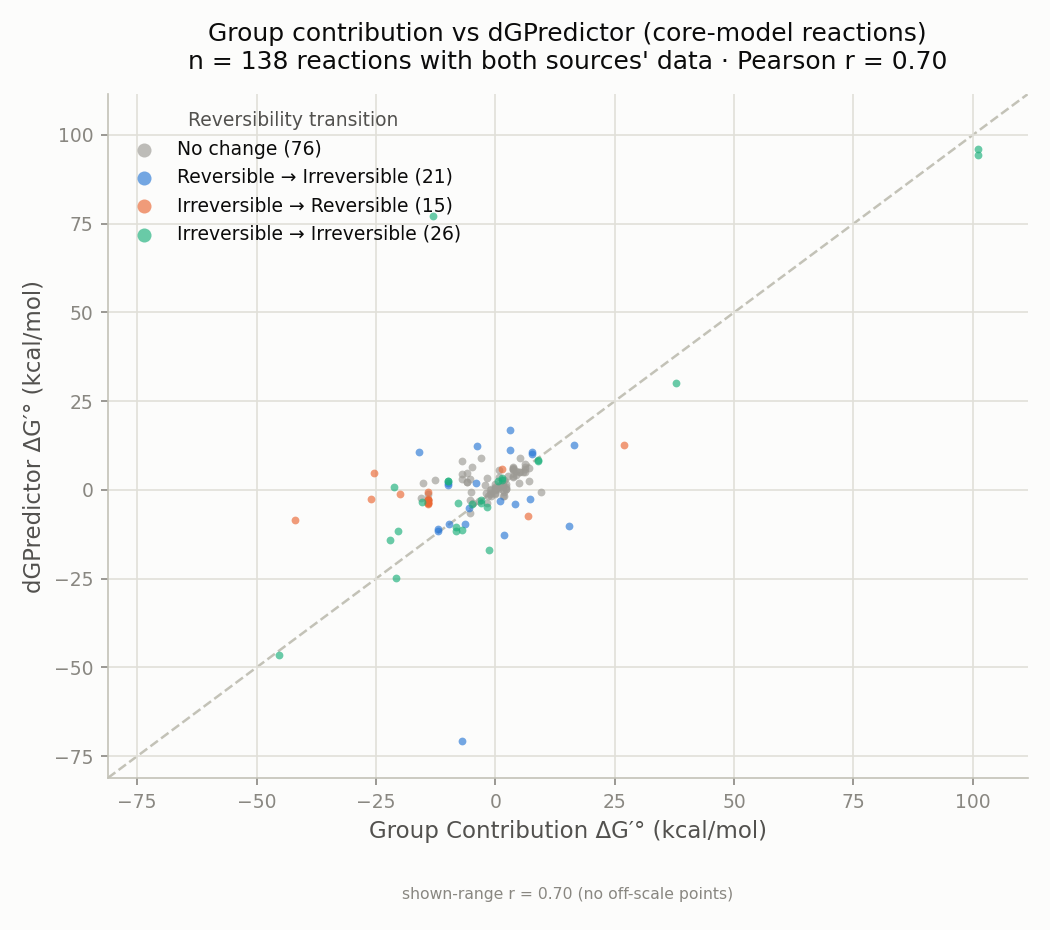
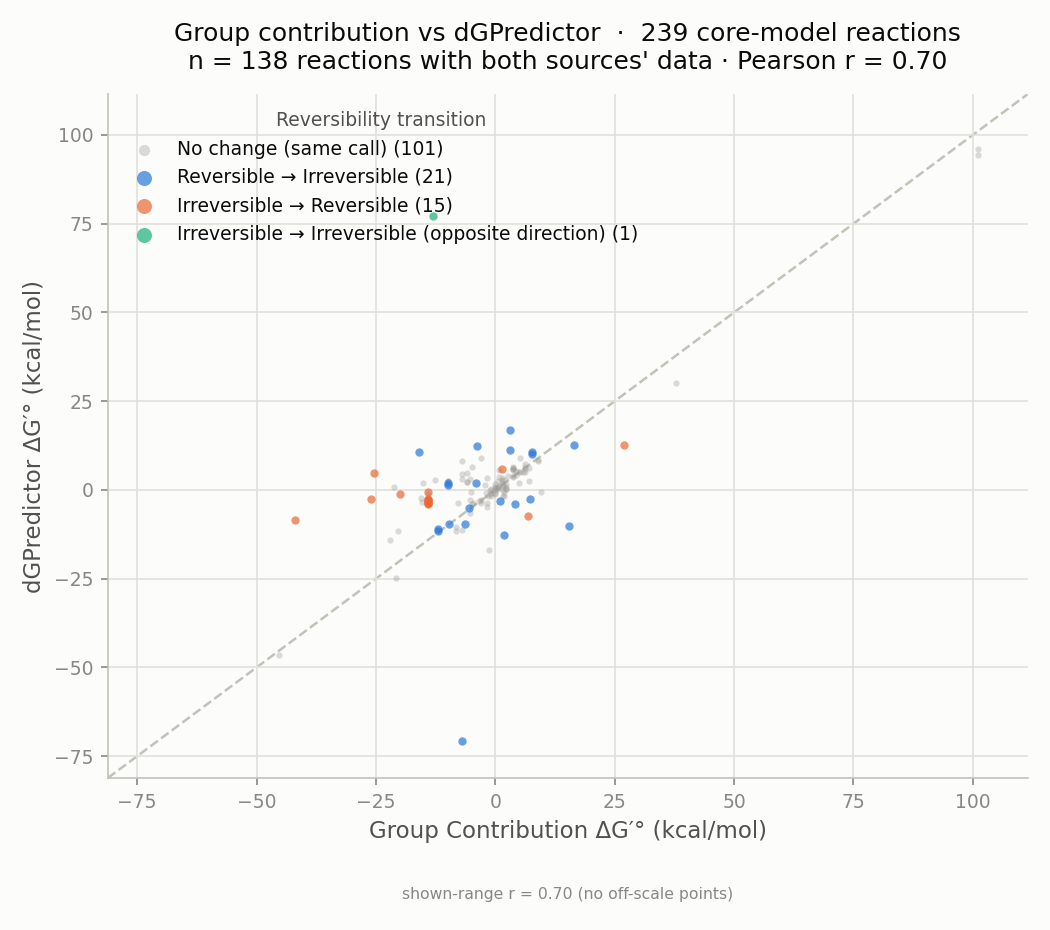
Propagate the strict transition categories to every scatter, and add a figure registry
CATEGORIES (now identical in all four scatter scripts, unit-tested on all nine
operator pairs):

  No change                     = -> = ,  > -> > ,  < -> <
  Reversible -> Irreversible    = -> >  ,  = -> <
  Irreversible -> Reversible    > -> =  ,  < -> =
  Irreversible -> Irreversible  > -> <  ,  < -> >     (opposite directions only)

plot_thermo_source_dg_scatter.py and plot_thermo_source_dg_scatter_filtered.py
still used the loose definition, where every both-irreversible pair fell into the
last category regardless of direction. That coloured perfect agreement the same
as a reversal and made it the largest category in every panel. For Group
Contribution vs eQuilibrator it drops from 7,422 of 18,477 to 143.
plot_thermo_source_dg_scatter_subtractive.py inherits draw_panel from the
filtered script and needed no change.

"No change" is now the bulk of each panel, so it is drawn smaller and more
transparent with the three real transitions on a higher zorder, and the legend
spells out the reserved category's definition.

Regenerated all six transition-coloured sets (262 PNGs):
thermo_source_dg_scatter, _core239, _filtered, _subtractive,
dgpredictor_base_vs_finetuned, kegg_fix_impact.

FIGURE REGISTRY. Iterating on a figure was costing more time in "which script
draws this directory, and with what arguments?" than in the edit itself.

  scripts/figures.tsv        one row per figure set: name, script, exact argv, tags
  scripts/regen_figures.py   parallel runner over it
[…]

diff --git a/scripts/plot_thermo_source_dg_scatter.py b/scripts/plot_thermo_source_dg_scatter.py
@@ -8,13 +8,22 @@ plotted (the intersection of coverage). Points are colored by *reversibility
 transition* -- how the two sources' own reversibility calls (each run through
 the unmodified ModelSEED heuristic cascade, reversibility_heuristics.DEFAULT_HEURISTICS,
 fed that source's own DeltaG via per_source_energy) compare, collapsing each
-call to reversible ("=") vs irreversible (">" or "<"):
+call are compared:
 
-  * No change                    -- both sources call it reversible ("=")
+  * No change                    -- the two sources make the IDENTICAL call:
+    both reversible ("="), or both irreversible in the SAME direction (both ">"
+    or both "<"). Nothing is in dispute.
   * Reversible -> Irreversible   -- source A reversible, source B irreversible
   * Irreversible -> Reversible   -- source A irreversible, source B reversible
-  * Irreversible -> Irreversible -- both irreversible (regardless of whether
-    the specific direction, > or <, agrees between the two)
+  * Irreversible -> Irreversible -- both irreversible, in OPPOSITE directions
+    (">" vs "<"). RESERVED for this case: it is the only genuine direction
+    conflict, and it is what actually changes a flux model.
+
+That last category is stricter than it was before 2026-08, when it held every
+both-irreversible pair regardless of direction -- which coloured perfect
+agreement identically to a reversal and made it the largest category in every
+panel. "No change" is correspondingly larger now, so it is drawn smaller and
+more transparent with the three real transitions on top.
 
 The legend shows the reaction count for each category in parentheses.
 "No change" is rendered in neutral gray (no hue) rather than a 4th categorical
@@ -90,6 +99,14 @@ CATEGORY_COLOR = {
     "Irreversible → Reversible": "#eb6834",     # slot 2, orange
     "Irreversible → Irreversible": "#1baf7a",   # slot 3, aqua
 }
+# Displayed legend text. The category NAME is unchanged; the parenthetical
+# states the definition, which is not guessable from the name alone.
+CATEGORY_LEGEND = {
+    "No change": "No change (same call)",
+    "Reversible → Irreversible": "Reversible → Irreversible",
+    "Irreversible → Reversible": "Irreversible → Reversible",
+    "Irreversible → Irreversible": "Irreversible → Irreversible (opposite direction)",
+}
 INK_PRIMARY = "#0b0b0b"
 INK_SECONDARY = "#52514e"
 INK_MUTED = "#898781"
@@ -99,16 +116,21 @@ SURFACE = "#fcfcfb"
 
 
 def classify(op_a: str, op_b: str) -> str:
-    """Reversibility transition from source A to source B ('=' == reversible)."""
-    rev_a = op_a == "="
-    rev_b = op_b == "="
-    if rev_a and rev_b:
-        return "No change"
-    if rev_a and not rev_b:
+    """Reversibility transition from source A to source B.
+
+    "Irreversible -> Irreversible" is RESERVED for the case that matters: both
+    sources call the reaction irreversible but in OPPOSITE directions ('>' vs
+    '<'). Two sources that agree on the same irreversible direction have not
+    disagreed about anything, so they land in "No change" alongside the pairs
+    that both call it reversible.
+    """
+    if op_a == op_b:
+        return "No change"                    # both '=', or the same '>' / '<'
+    if op_a == "=":
         return "Reversible → Irreversible"
-    if not rev_a and rev_b:
+    if op_b == "=":
         return "Irreversible → Reversible"
-    return "Irreversible → Irreversible"
+    return "Irreversible → Irreversible"      # '>' vs '<' — direction reversed
 
 
 def load_source_data(reactions: dict, dgp_mask: set[str] | None = None) -> dict:
@@ -202,9 +224,11 @@ def plot_pair(src_a: str, src_b: str, data: dict, out_dir: Path | None = None,
 
     for cat in CATEGORY_ORDER:
         idx = [i for i, (c, keep) in enumerate(zip(cats, in_range)) if c == cat and keep]
-        label = f"{cat} ({cat_counts.get(cat, 0):,})"
-        ax.scatter(xs[idx], ys[idx], s=14, linewidths=0,
-                    color=CATEGORY_COLOR[cat], alpha=0.65, label=label, zorder=2)
+        label = f"{CATEGORY_LEGEND[cat]} ({cat_counts.get(cat, 0):,})"
+        bulk = cat == "No change"   # now the majority; keep it recessive
+        ax.scatter(xs[idx], ys[idx], s=9 if bulk else 16, linewidths=0,
+                    color=CATEGORY_COLOR[cat], alpha=0.35 if bulk else 0.7,
+                    label=label, zorder=2 if bulk else 3)
 
     ax.set_xlim(lo, hi)
     ax.set_ylim(lo, hi)
@@ -247,6 +271,20 @@ def plot_pair(src_a: str, src_b: str, data: dict, out_dir: Path | None = None,
     out_path = out_dir / f"dg_scatter_{src_a}_vs_{src_b}.png"
     fig.savefig(out_path, facecolor=SURFACE)
     plt.close(fig)
+
+    # Machine-readable counts alongside the PNG: the legend is not a data source,
+    # and prose elsewhere quotes these numbers.
+    stats_path = out_dir / "category_counts.tsv"
+    header = ("pair\tn\tpearson_r\tshown_range_r\t"
+              + "\t".join(CATEGORY_ORDER) + "\n")
+    line = (f"{src_a}_vs_{src_b}\t{len(common)}\t{r_all:.4f}\t{r_robust:.4f}\t"
+            + "\t".join(str(cat_counts.get(c, 0)) for c in CATEGORY_ORDER) + "\n")
+    if stats_path.exists() and stats_path.read_text().startswith(header):
+        with open(stats_path, "a") as fh:
+            fh.write(line)
+    else:
+        stats_path.write_text(header + line)
+
     print(f"wrote {out_path} ({len(common)} points)")
     return out_path
 
@@ -290,8 +328,10 @@ def main() -> None:
             print(f"  {label}: {len(data[src])} of {len(keep)} subset reactions "
                   f"have a usable DeltaG")
 
+    (out_dir / "category_counts.tsv").unlink(missing_ok=True)
     for src_a, src_b in PAIRS:
         plot_pair(src_a, src_b, data, out_dir=out_dir, subset_note=args.subset_label)
+    print(f"wrote {out_dir / 'category_counts.tsv'}")
 
 
 if __name__ == "__main__":

diff --git a/scripts/regen_figures.py b/scripts/regen_figures.py
@@ -1,0 +1,133 @@
+#!/usr/bin/env python3
+"""Regenerate figure sets from scripts/figures.tsv, in parallel.
+
+The registry exists because "which script draws this figure?" was costing more
+time than the edit itself. Every figure set has one row: output directory, the
+script, the exact argv, and tags.
+
+    python3 scripts/regen_figures.py --list
+    python3 scripts/regen_figures.py --all
+    python3 scripts/regen_figures.py --tag transition     # the coloured scatters
+    python3 scripts/regen_figures.py kegg_fix_impact thermo_source_dg_scatter
+    python3 scripts/regen_figures.py --all --exclude-tag slow
+
+Each job runs as its own process; logs go to reports/thermoComparison/figures/
+_regen_logs/<name>.log and only the tail is echoed on failure. Exit status is
+non-zero if any job failed.
+"""
+from __future__ import annotations
+
+import argparse
+import csv
+import os
+import shlex
+import subprocess
+import sys
+import time
+from concurrent.futures import ThreadPoolExecutor
+from pathlib import Path
+
+ROOT = Path(__file__).resolve().parents[1]
+REGISTRY = ROOT / "scripts" / "figures.tsv"
+LOG_DIR = ROOT / "reports" / "thermoComparison" / "figures" / "_regen_logs"
+PYTHON = os.environ.get(
+    "CMA_PYTHON",
+    "/mnt/homes/ctaylor/conda/miniforge3/envs/core_models_analysis/bin/python")
+
+
+def load_registry() -> list[dict]:
+    rows = []
+    with open(REGISTRY) as fh:
+        lines = [ln for ln in fh if not ln.startswith(">")]
+    for row in csv.DictReader(lines, delimiter="\t"):
+        if not row.get("name"):
+            continue
+        row["tags"] = [t.strip() for t in (row.get("tags") or "").split(",") if t.strip()]
+        rows.append(row)
+    return rows
+
+
+def run_one(job: dict, dry: bool) -> tuple[str, int, float, Path]:
+    cmd = [PYTHON, str(ROOT / "scripts" / job["script"])]
+    cmd += shlex.split(job.get("args") or "")
+    log = LOG_DIR / f"{job['name']}.log"
+    if dry:
+        print(f"  would run: {shlex.join(cmd)}")
+        return job["name"], 0, 0.0, log
+    LOG_DIR.mkdir(parents=True, exist_ok=True)
+    t0 = time.time()
+    with open(log, "w") as fh:
+        fh.write(shlex.join(cmd) + "\n\n")
+        fh.flush()
+        rc = subprocess.call(cmd, cwd=ROOT, stdout=fh, stderr=subprocess.STDOUT)
+    return job["name"], rc, time.time() - t0, log
+
+
+def main() -> int:
+    ap = argparse.ArgumentParser(description=__doc__,
+                                 formatter_class=argparse.RawDescriptionHelpFormatter)
+    ap.add_argument("names", nargs="*", help="figure set names (default: none)")
+    ap.add_argument("--all", action="store_true")
+    ap.add_argument("--tag", action="append", default=[],
+                    help="include every set carrying this tag (repeatable)")
+    ap.add_argument("--exclude-tag", action="append", default=[])
+    ap.add_argument("--list", action="store_true")
+    ap.add_argument("--dry-run", action="store_true")
+    ap.add_argument("-j", "--jobs", type=int, default=4)
+    args = ap.parse_args()
+
+    reg = load_registry()
+    by_name = {r["name"]: r for r in reg}
+
+    if args.list:
+        w = max(len(r["name"]) for r in reg)
+        print(f"{'name'.ljust(w)}  {'script':46s}  tags")
+        for r in reg:
+            print(f"{r['name'].ljust(w)}  {r['script']:46s}  {','.join(r['tags'])}")
+        return 0
+
+    selected: list[dict] = []
+    if args.all:
+        selected = list(reg)
+    else:
+        for n in args.names:
+            if n not in by_name:
+                print(f"unknown figure set: {n}  (try --list)", file=sys.stderr)
+                return 2
+            selected.append(by_name[n])
+        for t in args.tag:
+            selected += [r for r in reg if t in r["tags"]]
+    for t in args.exclude_tag:
+        selected = [r for r in selected if t not in r["tags"]]
+    # de-duplicate, preserve order
+    seen, jobs = set(), []
+    for r in selected:
+        if r["name"] not in seen:
+            seen.add(r["name"])
+            jobs.append(r)
+    if not jobs:
+        ap.print_help()
+        return 2
+
+    print(f"regenerating {len(jobs)} figure set(s) with {args.jobs} worker(s):")
+    for j in jobs:
+        print(f"  {j['name']}")
+    print()
+
+    failures = []
+    with ThreadPoolExecutor(max_workers=args.jobs) as ex:
+        for name, rc, dt, log in ex.map(lambda j: run_one(j, args.dry_run), jobs):
+            if args.dry_run:
+                continue
+            status = "ok  " if rc == 0 else "FAIL"
+            print(f"  [{status}] {name:38s} {dt:6.1f}s   {log.relative_to(ROOT)}")
+            if rc != 0:
+                failures.append((name, log))
+    for name, log in failures:
+        print(f"\n----- tail of {name} -----")
+        print("\n".join(log.read_text().splitlines()[-15:]))
+    return 1 if failures else 0
+
+
+if __name__ == "__main__":
+    sys.exit(main())

diff --git a/scripts/plot_thermo_source_dg_scatter_filtered.py b/scripts/plot_thermo_source_dg_scatter_filtered.py
@@ -75,8 +75,10 @@ Both areas, tilts and the realised coverage go into slice_counts.tsv.
 
 Point color is the reversibility transition between the two sources, identical
 in definition and palette to plot_thermo_source_dg_scatter.py: each source's own
-ΔG'° run through the unmodified cascade (DEFAULT_HEURISTICS via
-per_source_energy), collapsed to reversible ("=") vs irreversible (">"/"<").
+ΔG'° is run through the unmodified cascade (DEFAULT_HEURISTICS via
+per_source_energy) and the two resulting operators are compared. "No change"
+means the IDENTICAL call -- both "=", or the same ">" / "<". "Irreversible ->
+Irreversible" is reserved for ">" vs "<", the only genuine direction conflict.
 
 DATA PROVENANCE
 ---------------
@@ -184,6 +186,14 @@ CATEGORY_COLOR = {
     "Reversible → Irreversible": "#2a78d6",
     "Irreversible → Reversible": "#eb6834",
     "Irreversible → Irreversible": "#1baf7a",
+}
+# Displayed legend text. The category NAME is unchanged; the parenthetical
+# states the definition, which is not guessable from the name alone.
+CATEGORY_LEGEND = {
+    "No change": "No change (same call)",
+    "Reversible → Irreversible": "Reversible → Irreversible",
+    "Irreversible → Reversible": "Irreversible → Reversible",
+    "Irreversible → Irreversible": "Irreversible → Irreversible (opposite direction)",
 }
 EXCLUDED_COLOR = "#dedbd1"
 OVAL_COLOR = "#5a3fb0"        # the 95% concentration ellipse: filled, solid edge
@@ -384,14 +394,21 @@ def draw_ellipses(ax, points: np.ndarray) -> dict:
 
 # ------------------------------------------------------------------- loading
 def classify(op_a: str, op_b: str) -> str:
-    rev_a, rev_b = op_a == "=", op_b == "="
-    if rev_a and rev_b:
-        return "No change"
-    if rev_a and not rev_b:
+    """Reversibility transition from source A to source B.
+
+    "Irreversible -> Irreversible" is RESERVED for the case that matters: both
+    sources call the reaction irreversible but in OPPOSITE directions ('>' vs
+    '<'). Two sources that agree on the same irreversible direction have not
+    disagreed about anything, so they land in "No change" alongside the pairs
+    that both call it reversible.
+    """
+    if op_a == op_b:
+        return "No change"                    # both '=', or the same '>' / '<'
+    if op_a == "=":
         return "Reversible → Irreversible"
-    if not rev_a and rev_b:
+    if op_b == "=":
         return "Irreversible → Reversible"
-    return "Irreversible → Irreversible"
+    return "Irreversible → Irreversible"      # '>' vs '<' — direction reversed
 
 
 def load_table() -> pd.DataFrame:
@@ -504,7 +521,7 @@ def draw_panel(ax, sub: pd.DataFrame, a: str, b: str, keep: np.ndarray,
             continue
         ax.scatter(xs[idx], ys[idx], s=13 if not compact else 9, linewidths=0,
                    color=CATEGORY_COLOR[cat], alpha=0.68, zorder=3,
-                   label=f"{cat} ({counts.get(cat, 0):,})")
+                   label=f"{CATEGORY_LEGEND[cat]} ({counts.get(cat, 0):,})")
     geom = {"conc_area": float("nan"), "conc_tilt": float("nan"),
             "conc_cover": float("nan"), "conc_semimajor": float("nan"),
             "conc_semiminor": float("nan"), "mvee_area": float("nan"),

diff --git a/reports/thermoComparison/THERMO_SOURCE_FBA_PIPELINE.md b/reports/thermoComparison/THERMO_SOURCE_FBA_PIPELINE.md
@@ -226,13 +226,21 @@ reactions) against each other:
 - [`dg_scatter_equilibrator_vs_dgpredictor.png`](/scratch/ctaylor/core_models_analysis/reports/thermoComparison/figures/thermo_source_dg_scatter/dg_scatter_equilibrator_vs_dgpredictor.png) — n = 8,768, Pearson r = 0.69
 
 Points are colored by the **reversibility transition** between the two sources (each
-reaction's own operator from §3/§4, i.e. the unmodified cascade fed that source's own ΔG,
-collapsed to reversible `=` vs irreversible `>`/`<`): *No change* (both reversible),
-*Reversible → Irreversible*, *Irreversible → Reversible*, or *Irreversible → Irreversible*
-(both irreversible, regardless of whether the specific direction agrees). The legend gives
-the reaction count for each category — e.g. for Group Contribution vs eQuilibrator: No
-change 6,736; Reversible→Irreversible 2,146; Irreversible→Reversible 2,173;
-Irreversible→Irreversible 7,422 (sums to n = 18,477). Group Contribution and eQuilibrator
+reaction's own operator from §3/§4, i.e. the unmodified cascade fed that source's own ΔG):
+*No change* — the two sources make the identical call, either both reversible `=` or both
+irreversible in the **same** direction (`>`→`>`, `<`→`<`); *Reversible → Irreversible*;
+*Irreversible → Reversible*; or *Irreversible → Irreversible* — both irreversible in
+**opposite** directions (`>`→`<` or `<`→`>`), which is the only genuine direction conflict
+and the one that actually changes a flux model. Counts are written to
+`category_counts.tsv` beside the PNGs; for Group Contribution vs eQuilibrator: No change
+14,015; Reversible→Irreversible 2,146; Irreversible→Reversible 2,173;
+Irreversible→Irreversible 143 (sums to n = 18,477).
+
+> **Changed 2026-08-17.** The last category previously held *every* both-irreversible
+> pair regardless of direction, which coloured perfect agreement identically to a reversal
+> and made it the largest category in every panel (7,422 of 18,477 here, now 143). All
+> transition-coloured figures were regenerated under the strict definition via
+> `scripts/regen_figures.py --tag transition`. Group Contribution and eQuilibrator
 track each other closely (r = 0.91). The compression described in the rest of this
 section was measured *before* the KEGG mask; on the masked set dGPredictor's ΔG values
 are far less compressed than stated here (out-of-sample additive residual 1.58 rather
